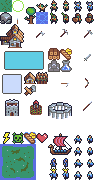
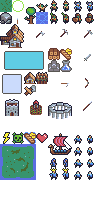
new font

diff --git a/src/js/ui/renderUI.js b/src/js/ui/renderUI.js
@@ -7,7 +7,7 @@ function gameRenderPost() {
 		GLOBAL.uiFont.drawText(
 			'You Have Lost\nClick to retry',
 			screenToWorld(vec2(innerWidth / 2, innerHeight / 2)),
-			0.12,
+			0.08,
 			true
 		);
 
@@ -23,7 +23,7 @@ function gameRenderPost() {
 		GLOBAL.uiFont.drawText(
 			'You Have Defeated\nthe "heroes"!',
 			screenToWorld(vec2(innerWidth / 2, innerHeight / 2)),
-			0.12,
+			0.08,
 			true
 		);
 
@@ -132,7 +132,7 @@ function gameRenderPost() {
 
 		// display message
 		GLOBAL.uiFont.drawText(
-			GLOBAL.message,
+			GLOBAL.message.toUpperCase(),
 			cameraPos,
 			0.08,
 			true
@@ -145,7 +145,7 @@ function gameRenderPost() {
 
 	if (GLOBAL.warriorIndex < 12 && countdown < 31) {
 		GLOBAL.uiFont.drawText(
-			DEFS.WARRIORS[GLOBAL.warriorIndex].number + ' ' + countdown + '\n' + DEFS.WARRIORS[GLOBAL.warriorIndex].from,
+			(DEFS.WARRIORS[GLOBAL.warriorIndex].number + ' ' + countdown + '\n' + DEFS.WARRIORS[GLOBAL.warriorIndex].from).toUpperCase(),
 			screenToWorld(vec2(innerWidth / 2, 24)),
 			0.08,
 			true
@@ -169,7 +169,7 @@ function drawUiBox(uiPos, tileInfo, text) {
 
 	GLOBAL.uiFont.drawText(
 		text,
-		uiPos.add(vec2(0.8, 0.2)),
+		uiPos.add(vec2(0.7, 0.2)),
 		0.08,
 		true
 	);

diff --git a/dist/lib/littlejs.trimmed.js b/dist/lib/littlejs.trimmed.js
@@ -1053,7 +1053,7 @@ class FontImage
      *  @param {Vector2} [paddingSize=(0,1)] - How much extra space to add between characters
      *  @param {CanvasRenderingContext2D} [context=overlayContext] - context to draw to
      */
-    constructor(image, tileSize=vec2(3, 5), paddingSize=vec2(1), context=overlayContext)
+    constructor(image, tileSize=vec2(6), paddingSize=vec2(1), context=overlayContext)
     {
        this.image = image;
         this.tileSize = tileSize;

diff --git a/src/js/main.js b/src/js/main.js
@@ -320,9 +320,9 @@ function loadMapData(callback) {
 			}
 
 			// font
-			const fontData = ctx.getImageData(0, 120, 96, 10);
+			const fontData = ctx.getImageData(0, 180, 96, 24);
 			canvas = document.createElement("canvas");
-			canvas.height = 10;
+			canvas.height = 24;
 			canvas.width = 96;
 			ctx = canvas.getContext("2d");
 			ctx.putImageData(fontData, 0, 0);

diff --git a/src/js/objects/Building_Barracks.js b/src/js/objects/Building_Barracks.js
@@ -28,7 +28,7 @@ class Building_Barracks extends Building {
 		}
 
 		if (!selectedUnits.length) {
-			GLOBAL.showMessage('Put a worker inside\nto upgrade');
+			GLOBAL.showMessage('Put a worker\ninside to upgrade');
 		}
 
 
